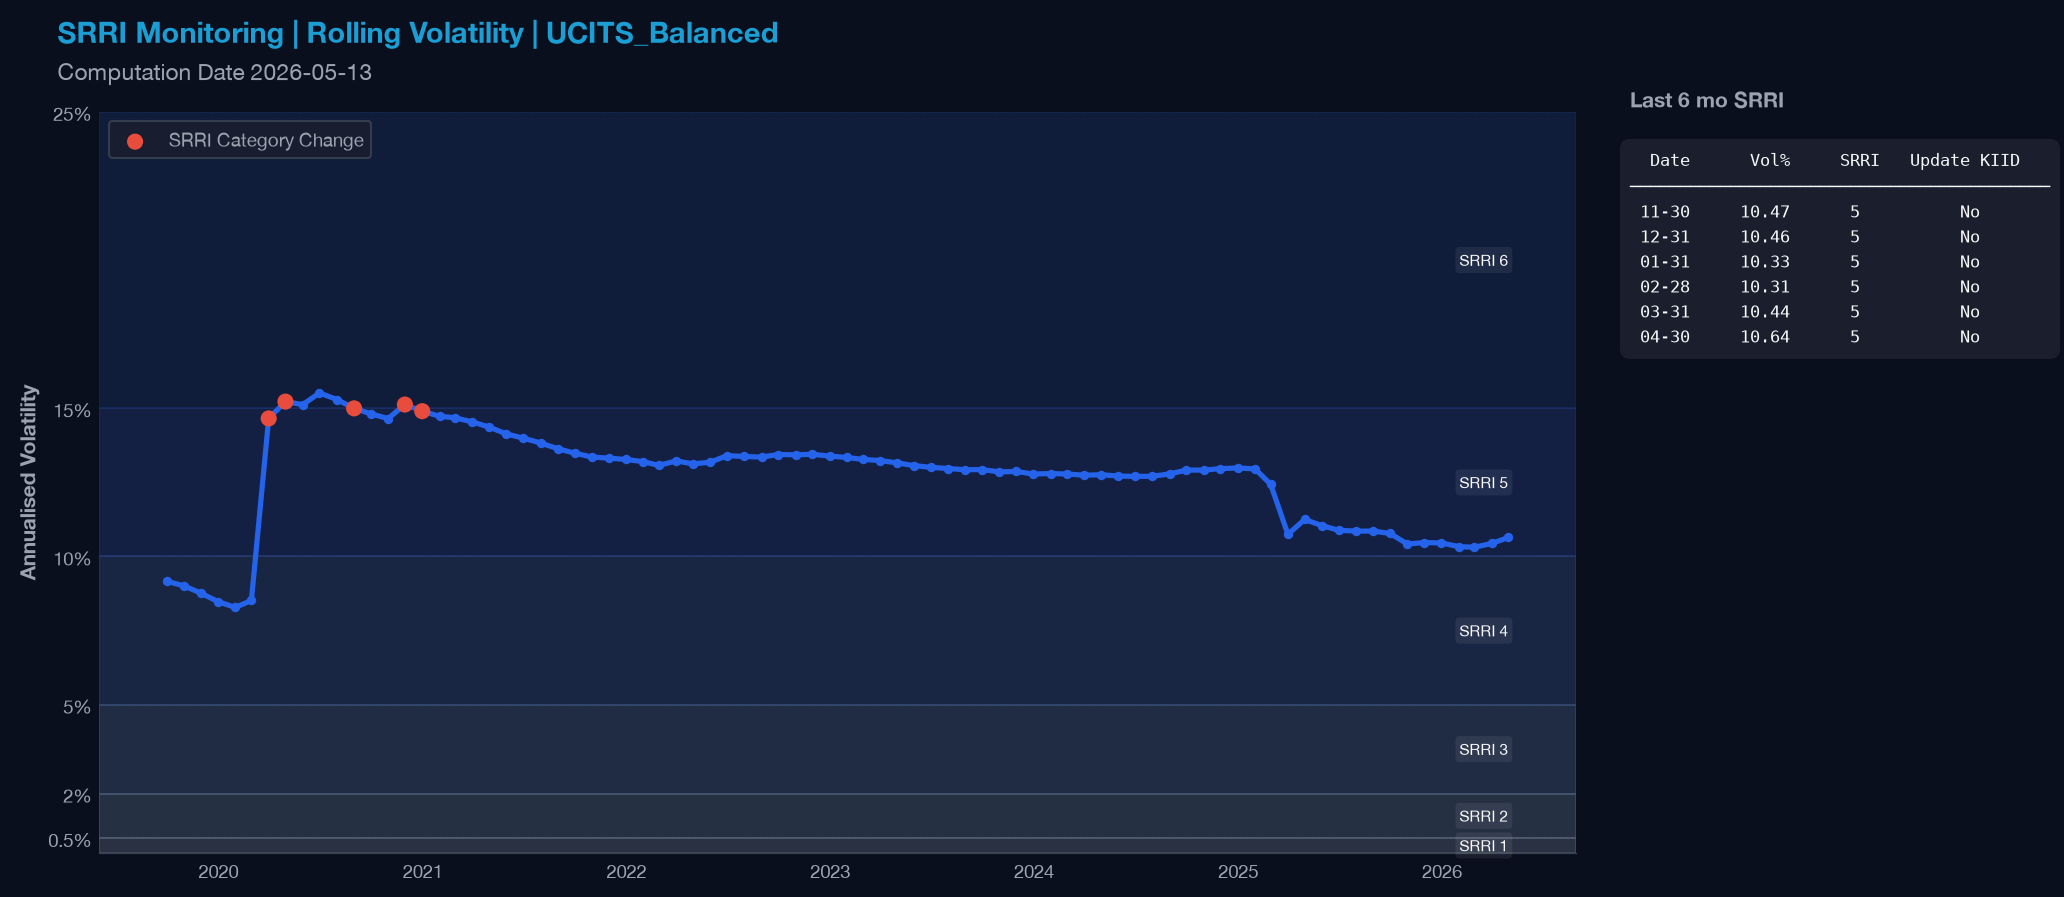
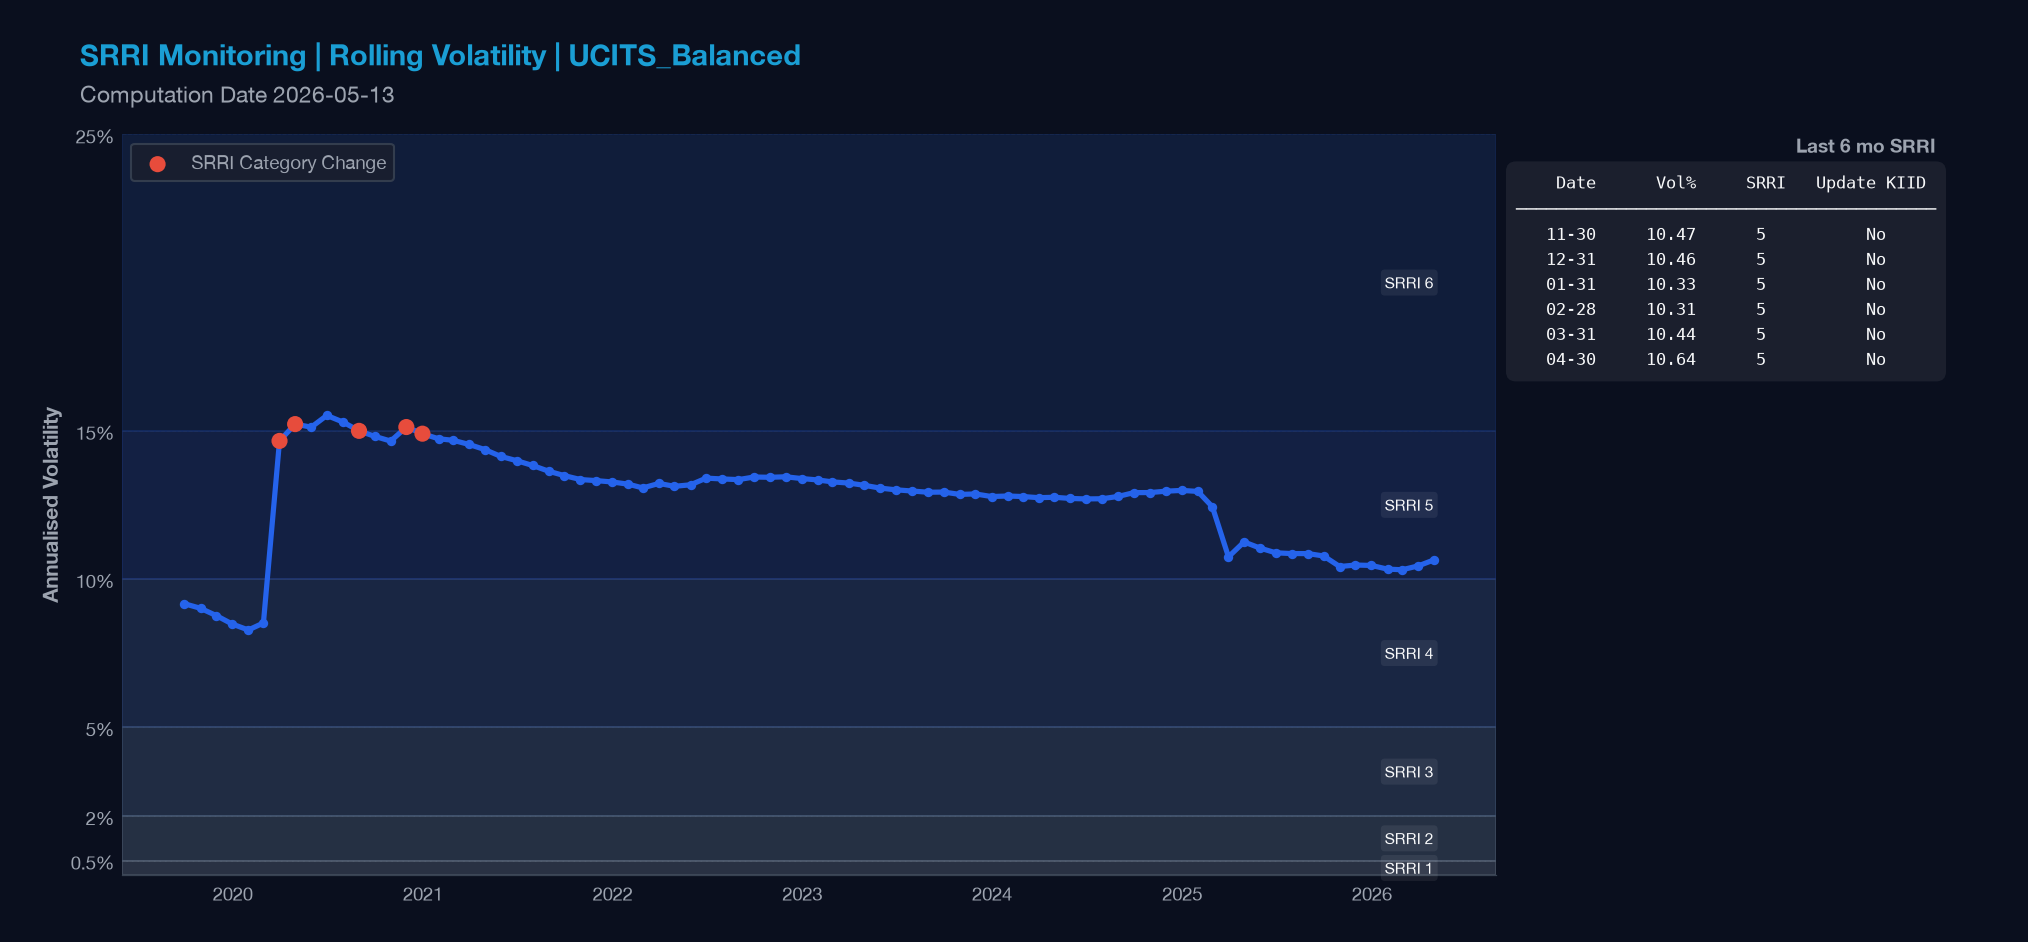
MRS-181: adjusted position of inset in SSRI monitoring plot

diff --git a/src/ui/print_html_utils.py b/src/ui/print_html_utils.py
@@ -2440,7 +2440,7 @@ def display_srri_monitoring(srri_rolling: dict, current_disclosed_srri: int,
 
     # ===== MAIN FIGURE: Plot LEFT, history panel RIGHT =====
     fig = plt.figure(figsize=(14, 6.5))
-    gs = GridSpec(1, 2, figure=fig, width_ratios=[5.8, 1.4], wspace=0.04,
+    gs = GridSpec(1, 2, figure=fig, width_ratios=[5.4, 1.8], wspace=0.04,
                   left=0.05, right=0.94, top=0.88, bottom=0.12)
 
     # Main axis: volatility chart with SRRI thresholds
@@ -2522,9 +2522,9 @@ def display_srri_monitoring(srri_rolling: dict, current_disclosed_srri: int,
     ax_history = fig.add_subplot(gs[0, 1])
     ax_history.axis('off')
 
-    # Title (OUTSIDE the box, above it, grey/muted color)
-    ax_history.text(0.05, 1.0, 'Last 6 mo SRRI', transform=ax_history.transAxes, fontsize=10,
-                   ha='left', va='bottom', fontweight='bold', color=C['muted'])
+    # Title (RIGHT-anchored to prevent overflow)
+    ax_history.text(0.88, 1.0, 'Last 6 mo SRRI', transform=ax_history.transAxes, fontsize=9,
+                   ha='right', va='top', fontweight='bold', color=C['muted'])
 
     # Build history table with enhanced spacing and centered columns
     recent_df = rolling_df.tail(6).copy()
@@ -2546,8 +2546,8 @@ def display_srri_monitoring(srri_rolling: dict, current_disclosed_srri: int,
 
     history_text = '\n'.join(history_lines)
 
-    ax_history.text(0.05, 0.95, history_text, transform=ax_history.transAxes, fontsize=8,
-                   ha='left', va='top', family='monospace', linespacing=1.5,
+    ax_history.text(0.88, 0.95, history_text, transform=ax_history.transAxes, fontsize=8,
+                   ha='right', va='top', family='monospace', linespacing=1.5,
                    bbox=dict(boxstyle='round,pad=0.6', facecolor='white', alpha=0.07,
                             edgecolor='none'))
 
@@ -2577,6 +2577,6 @@ def display_srri_monitoring(srri_rolling: dict, current_disclosed_srri: int,
         out_dir = _get_project_root() / 'figs' / fund_id
         out_dir.mkdir(parents=True, exist_ok=True)
         path = out_dir / f'{filename}.png'
-        fig.savefig(path, dpi=150, bbox_inches='tight', facecolor=fig.get_facecolor())
+        fig.savefig(path, dpi=150, bbox_inches='tight', pad_inches=0.25, facecolor=fig.get_facecolor())
 
     plt.show()